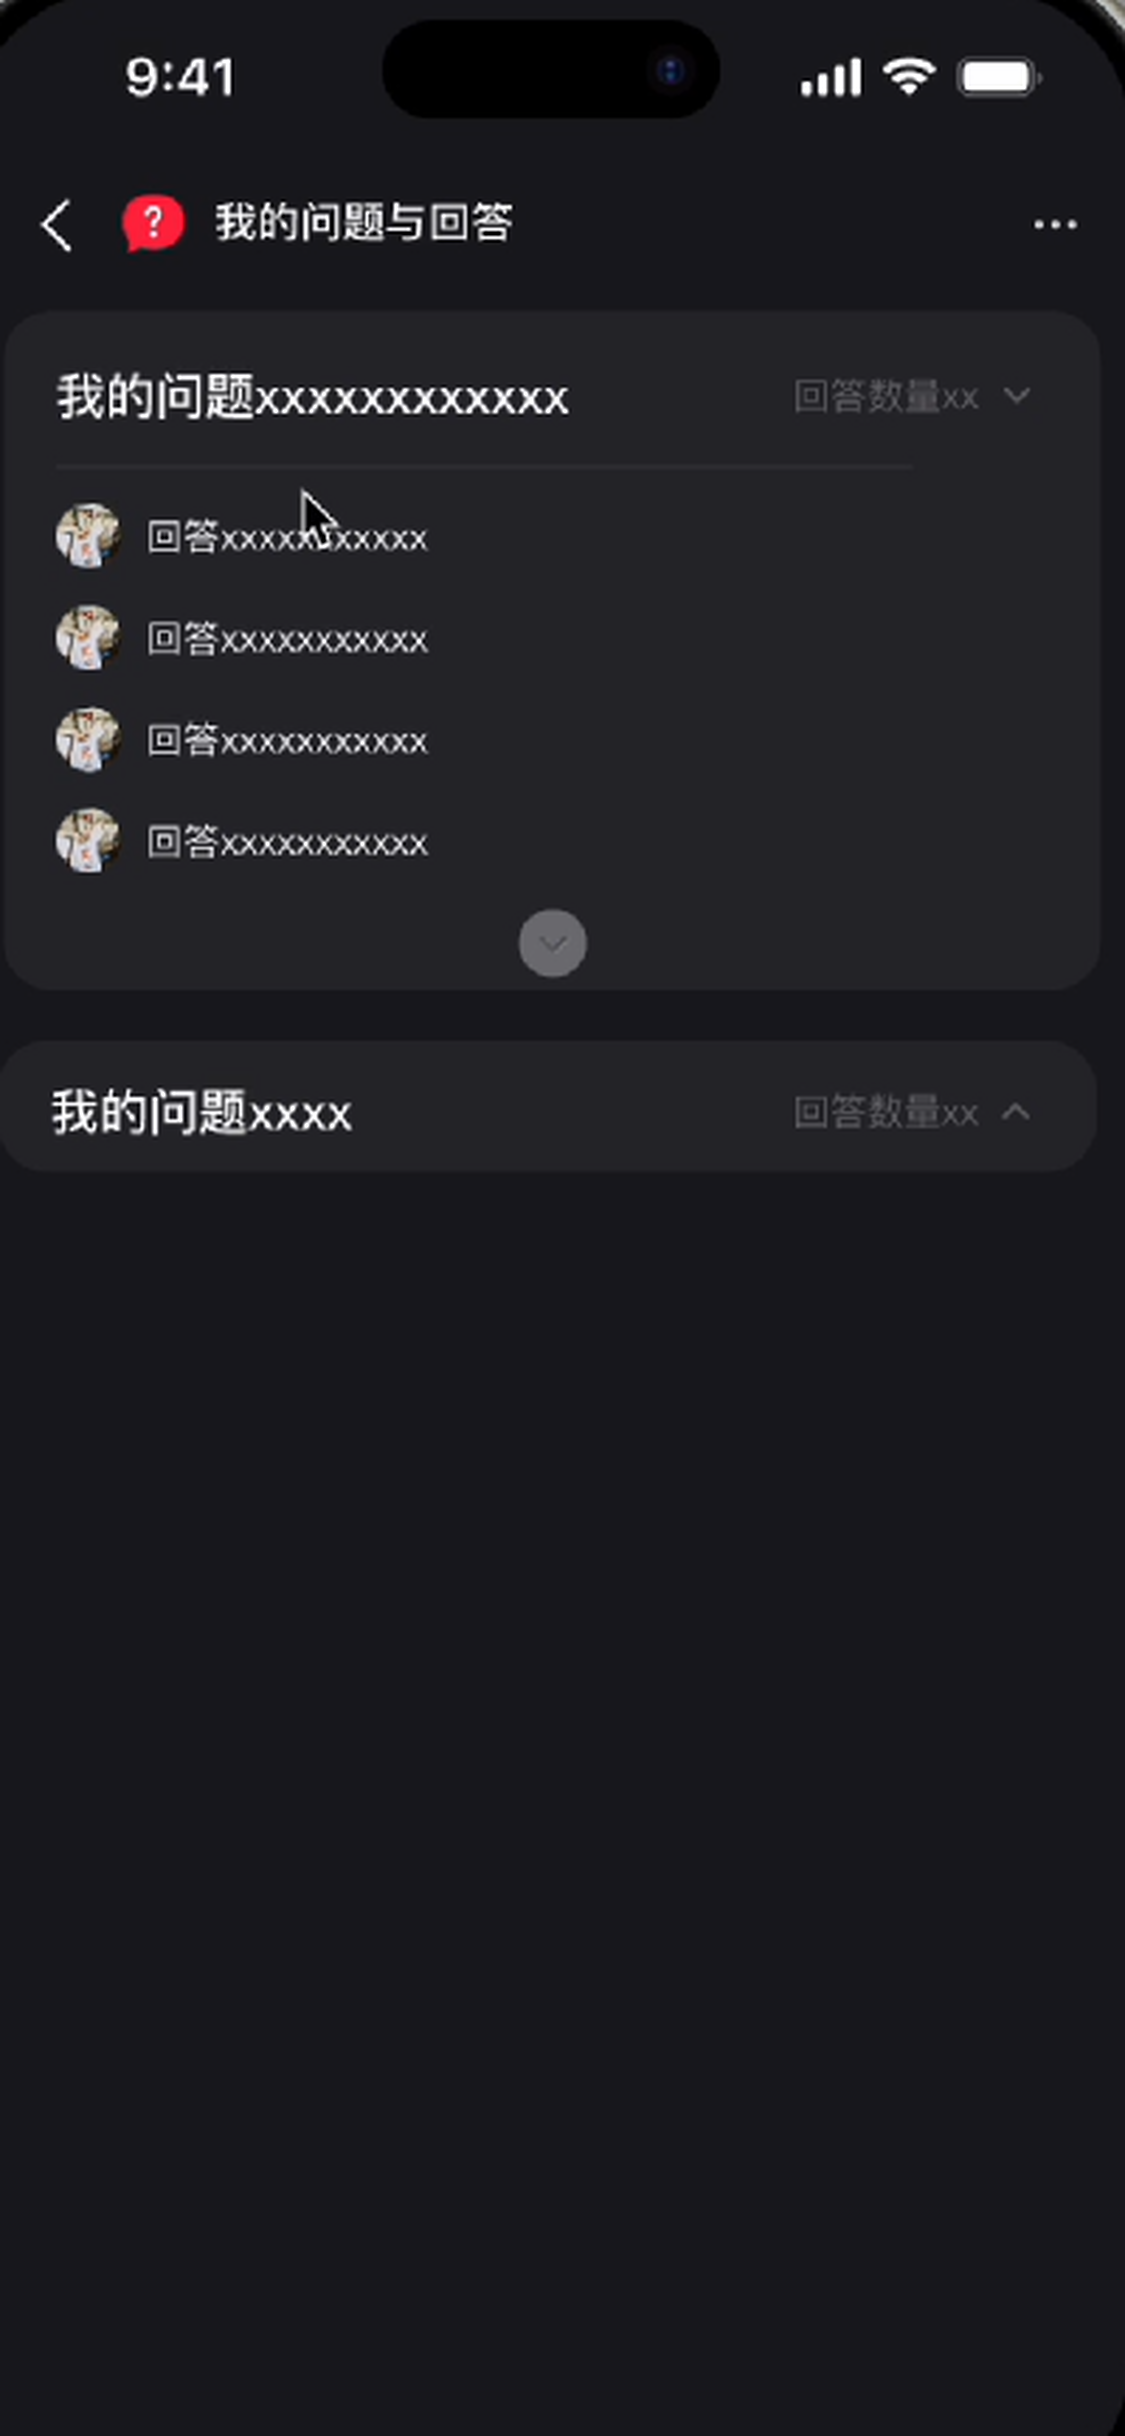
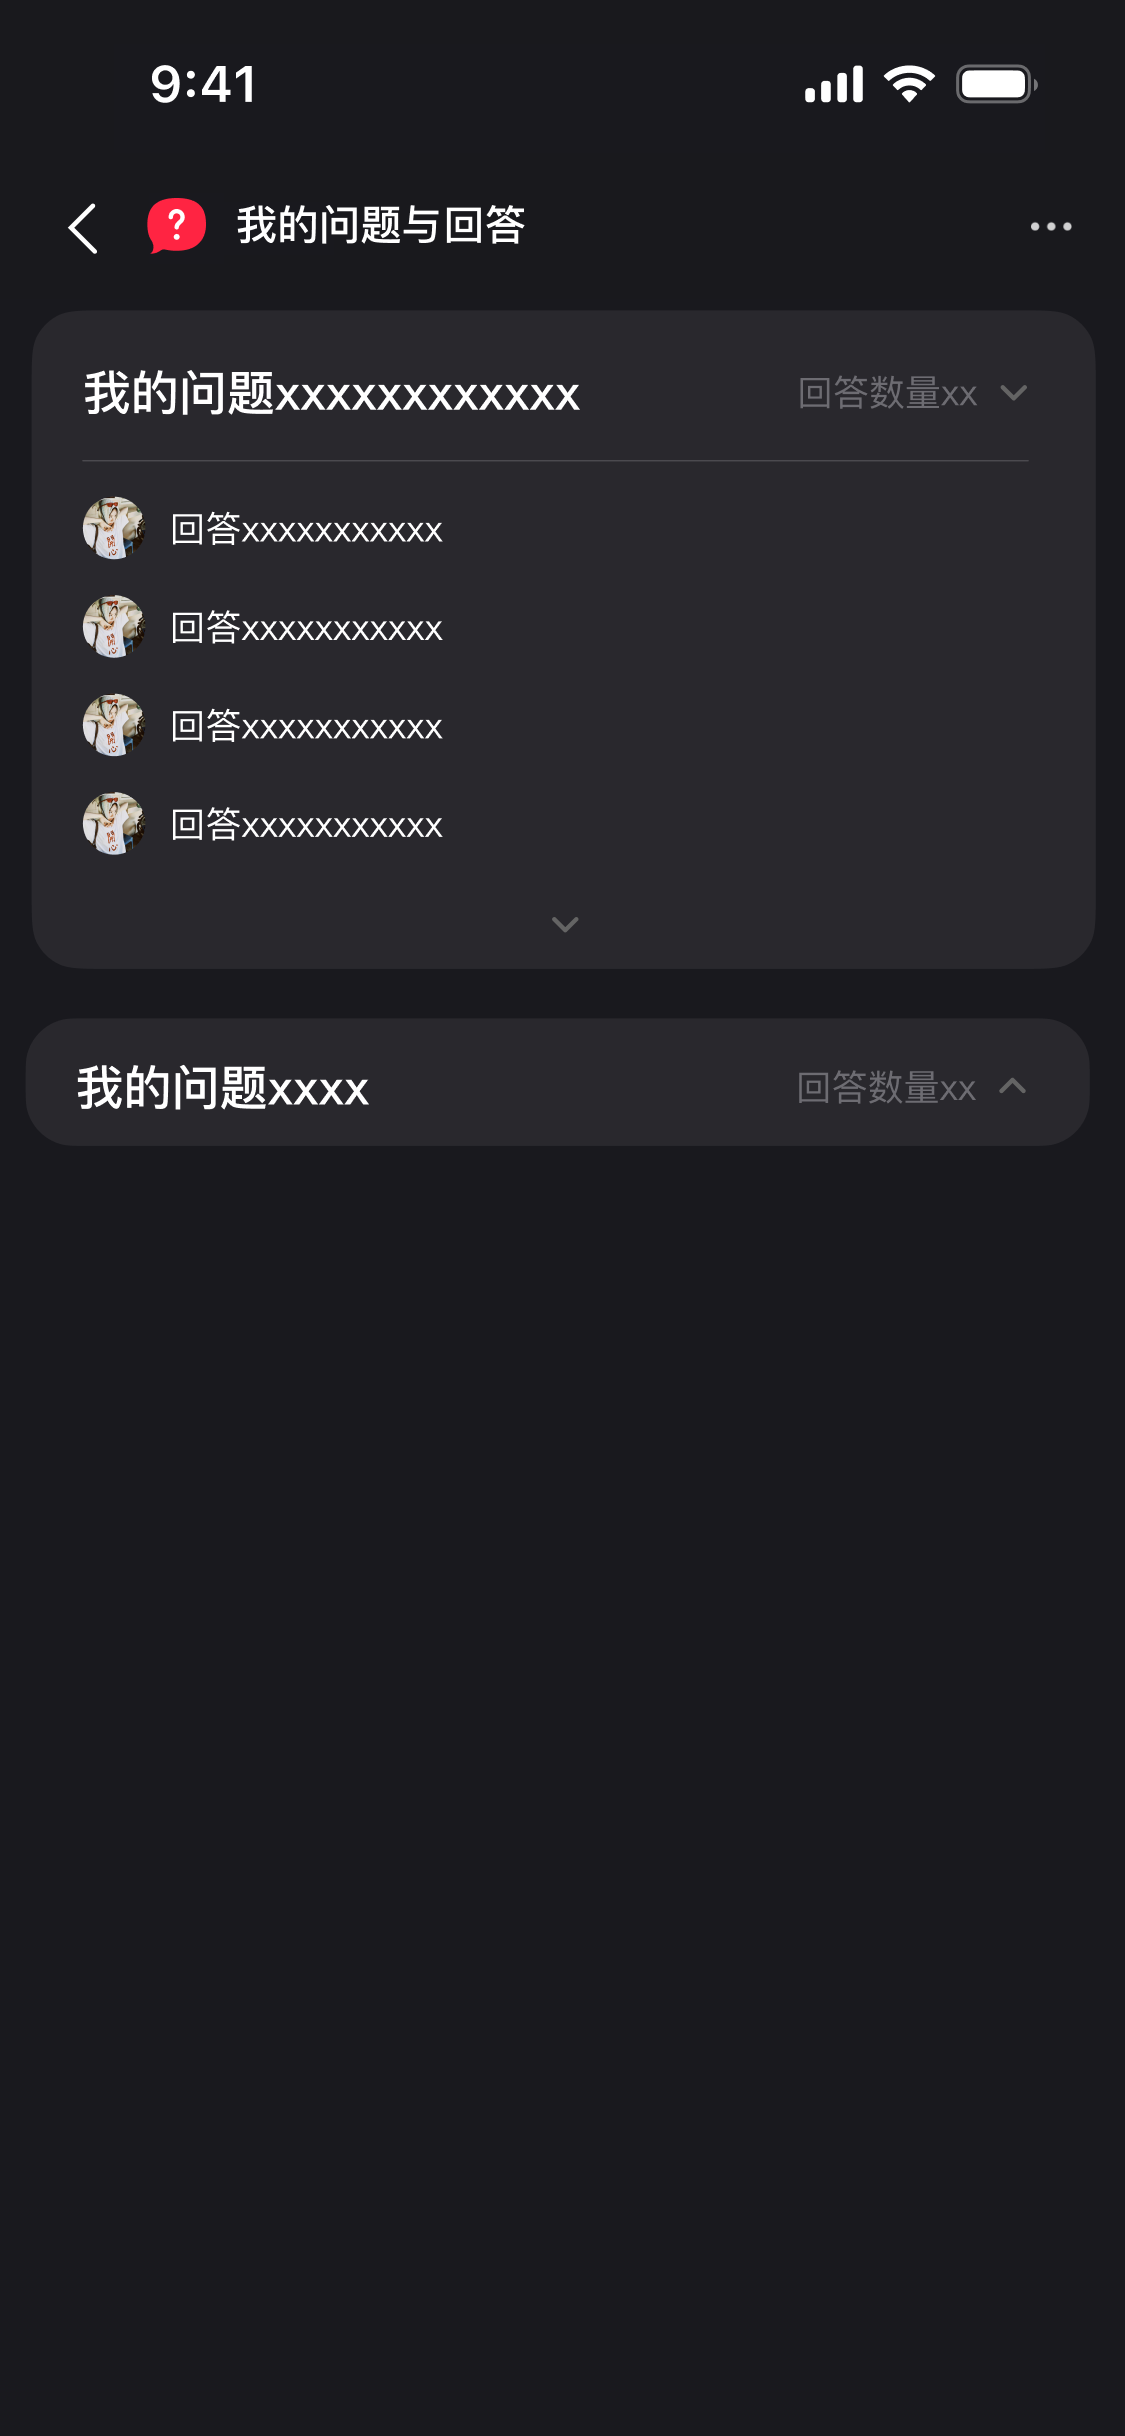
Replace Xiaohongshu demo screens with high-resolution artwork

diff --git a/xiaohongshu-mobile-demo/main.js b/xiaohongshu-mobile-demo/main.js
@@ -1,7 +1,7 @@
 const screens = {
   search: {
     title: "01 浏览甜品内容",
-    image: "01-search.jpg",
+    image: "01-search.webp",
     hotspots: [
       { label: "查看甜品笔记", to: "post", x: 0, y: 43, w: 50, h: 40 },
       { label: "查看点点整理", to: "summary", x: 1, y: 14, w: 98, h: 25 },
@@ -9,7 +9,7 @@ const screens = {
   },
   post: {
     title: "02 阅读真实笔记",
-    image: "02-post.jpg",
+    image: "02-post.webp",
     hotspots: [
       { label: "收藏并进入经验池", to: "pool", x: 62, y: 89, w: 16, h: 10 },
       { label: "返回搜索结果", to: "search", x: 0, y: 5, w: 13, h: 10 },
@@ -17,7 +17,7 @@ const screens = {
   },
   pool: {
     title: "03 浏览主题经验池",
-    image: "09-pool.jpg",
+    image: "09-pool.png",
     hotspots: [
       { label: "进入点点总结", to: "summary", x: 1, y: 17, w: 98, h: 58 },
       { label: "打开经验池设置", to: "settings", x: 1, y: 4, w: 13, h: 8 },
@@ -35,7 +35,7 @@ const screens = {
   },
   sources: {
     title: "05 追溯真人经验",
-    image: "08-sources.jpg",
+    image: "08-sources.png",
     hotspots: [
       { label: "继续提问", to: "fallback", x: 2, y: 87, w: 96, h: 11 },
       { label: "返回点点总结", to: "summary", x: 0, y: 5, w: 13, h: 9 },
@@ -102,7 +102,7 @@ let timer;
 function render(id) {
   const screen = screens[id] || screens.search;
   current = screens[id] ? id : "search";
-  image.src = `./assets/${screen.image}`;
+  image.src = `./assets/${screen.image}?v=20260920`;
   image.alt = screen.title;
   hotspotLayer.replaceChildren();
   screen.hotspots.forEach((spot) => {

diff --git a/xiaohongshu-mobile-demo/index.html b/xiaohongshu-mobile-demo/index.html
@@ -23,6 +23,6 @@
         <p class="review-note">以 Figma 原始导出及你录制的交互 Demo 为参考。界面中的示例数据不连接真实小红书服务。</p>
       </aside>
     </main>
-    <script defer src="./main.js"></script>
+    <script defer src="./main.js?v=20260920"></script>
   </body>
 </html>

diff --git a/xiaohongshu-mobile-demo/README.md b/xiaohongshu-mobile-demo/README.md
@@ -1,7 +1,7 @@
-# 小红书手机端交互 Demo（检查版）
+# 小红书手机端交互 Demo
 
 直接打开 `index.html` 即可体验；也可以在此目录运行 `python3 -m http.server 4173`，然后访问 `http://localhost:4173`。
 
 建议用 375×812 手机视口检查。主路径：甜品搜索 → 笔记 → 经验池 → 点点总结 → 向真人提问 → 确认发布 → 社区回答 → AI 更新。原型还包括来源追溯、问题记录与经验池设置分支。桌面端右侧有步骤导航，手机端点击原画面中的对应控件。
 
-这是用于确认交互与视觉的本地原型，不会向真实小红书发布问题，也没有接入 AI 服务。7 张主流程页面来自 Figma 原始 PNG 导出；4 张补充页面从用户提供的 `交互demo.mov` 手机画面中截取，因此清晰度较低，待确认后可替换为 Figma 原始导出。
+这是用于确认交互与视觉的原型，不会向真实小红书发布问题，也没有接入 AI 服务。全部 11 张界面均已替换为用户提供的 1125 × 2436 高清设计图。
